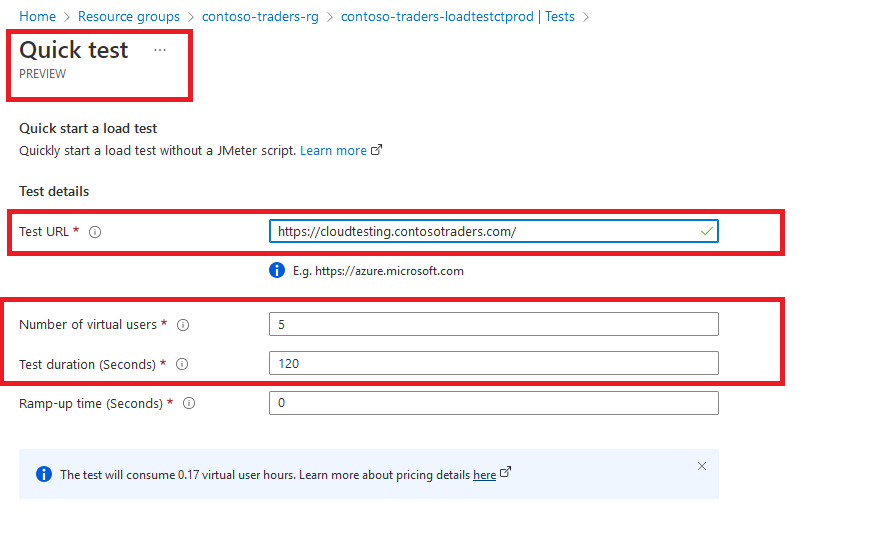
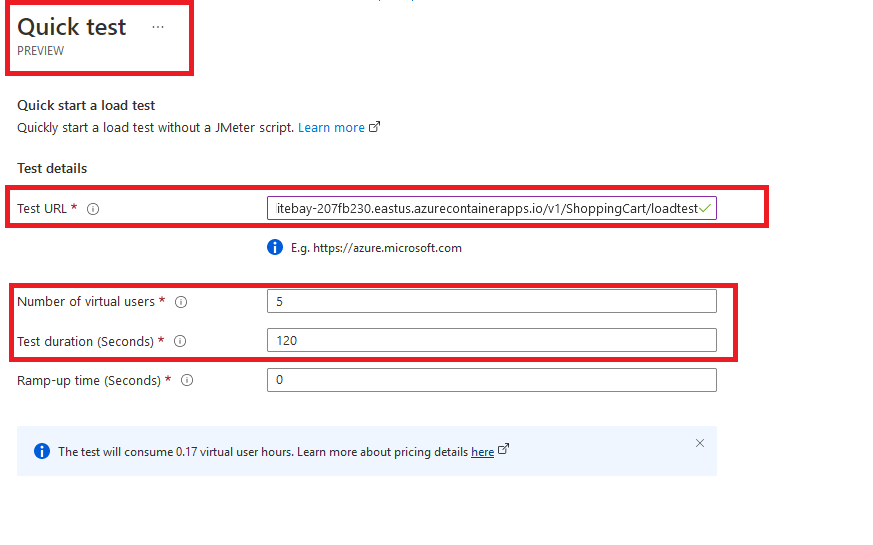
identify exact endpoint

diff --git a/demo-scripts/azure-load-testing-service/walkthrough.md b/demo-scripts/azure-load-testing-service/walkthrough.md
@@ -22,6 +22,14 @@ All these are especially crucial for an e-commerce application like Contoso Trad
 
    ![ACA](./media/aca-endpoint.png)
 
+3. In a separate browser tab, enter the following url in the address bar to load the API's swagger page: `<ACA url>/swagger/index.html`
+
+   ![ACA](./media/aca-swagger.png)
+
+4. You can now identify the API that you want to load test. In this case, we'll be load testing the `Carts API`'s `GET <ACA url>/v1/ShoppingCart/loadtest` endpoint. Please note down this endpoint for later use.
+
+   ![ACA](./media/aca-swagger-2.png)
+
 ## Walkthrough: Metrics & Dashboards
 
 1. In the Azure portal, you can navigate to the Azure Container App in the `contoso-traders-rg` resource group.
@@ -54,7 +62,7 @@ All these are especially crucial for an e-commerce application like Contoso Trad
 
    ![@TODO load testing service](./media/load-test-create-2.png)
 
-> **Note**: The steps above have already been executed for you (i.e. the load test has already been setup for you). You can skip to the next section for instructions on how to run the load test.
+> **Note**: The target URL is the URL from the `Carts API` that you identified in the previous section.
 
 ## Walkthrough: Running the Load Test
 
